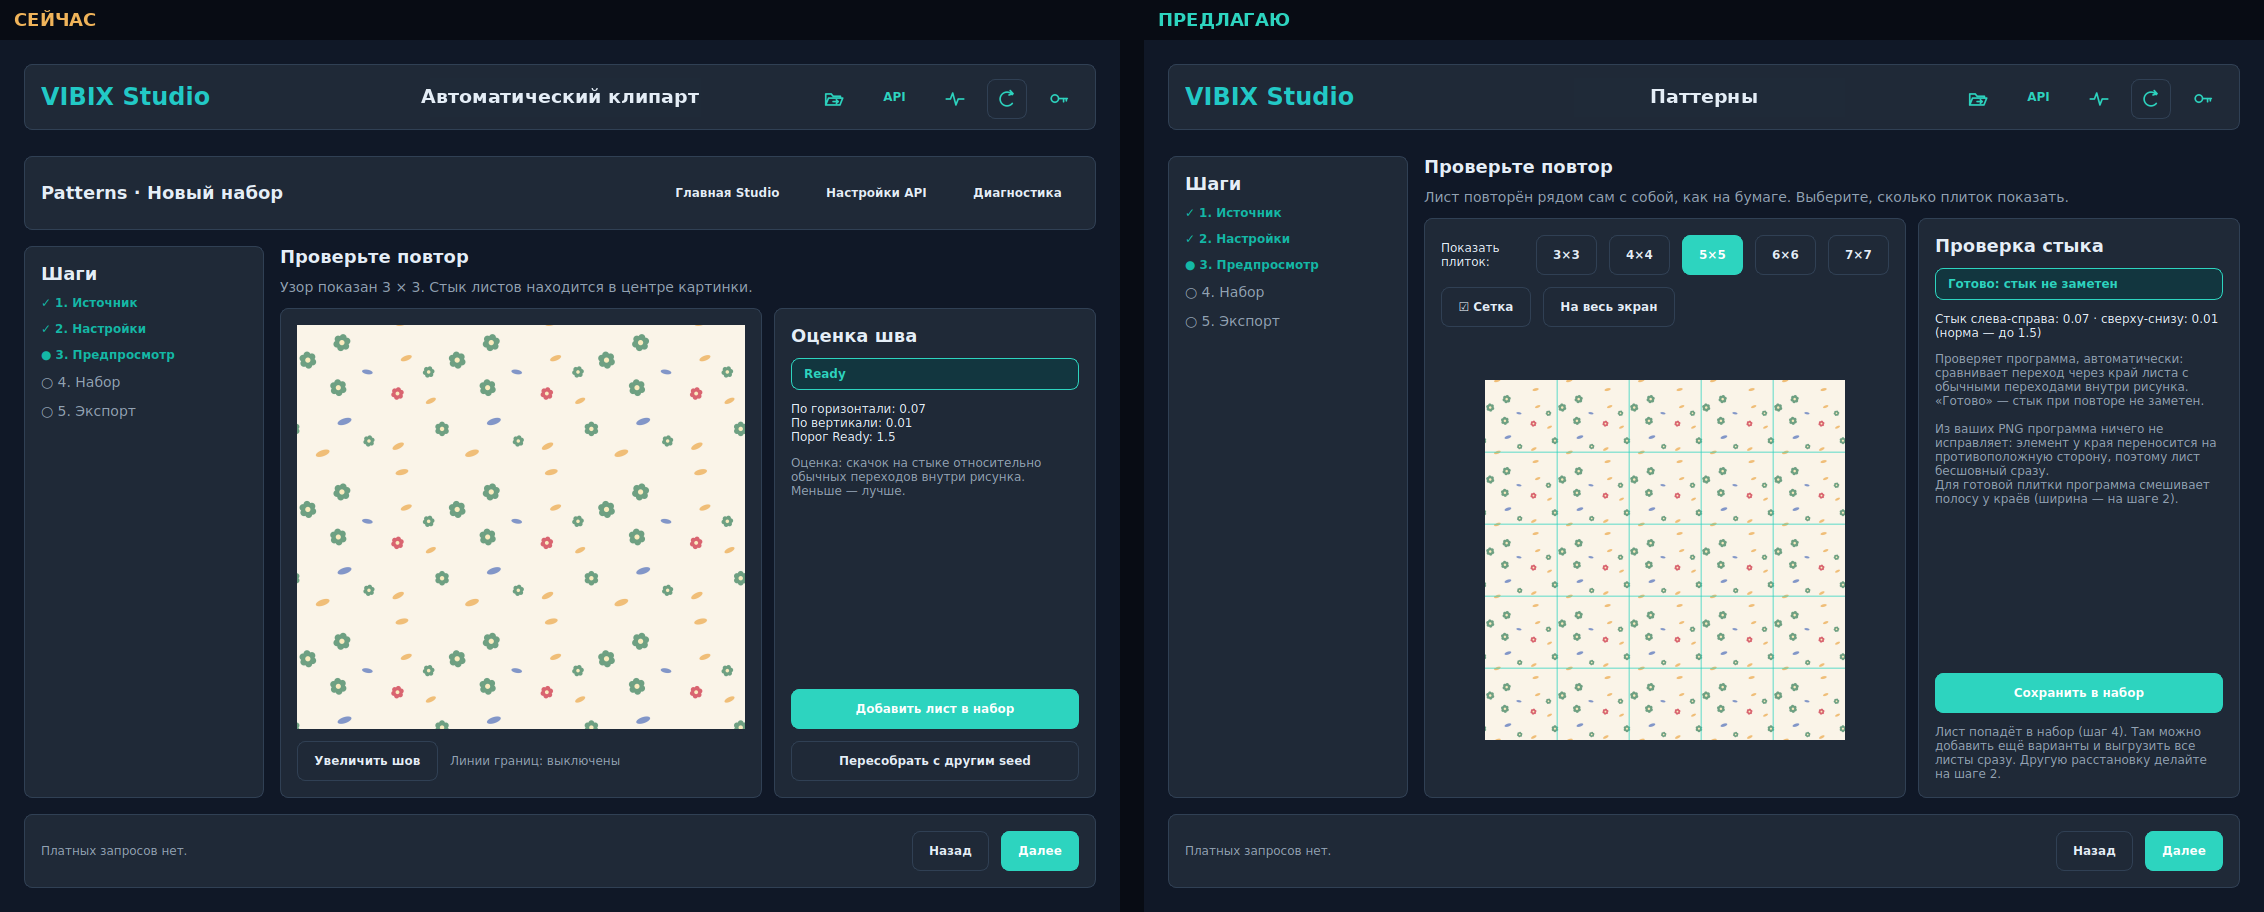
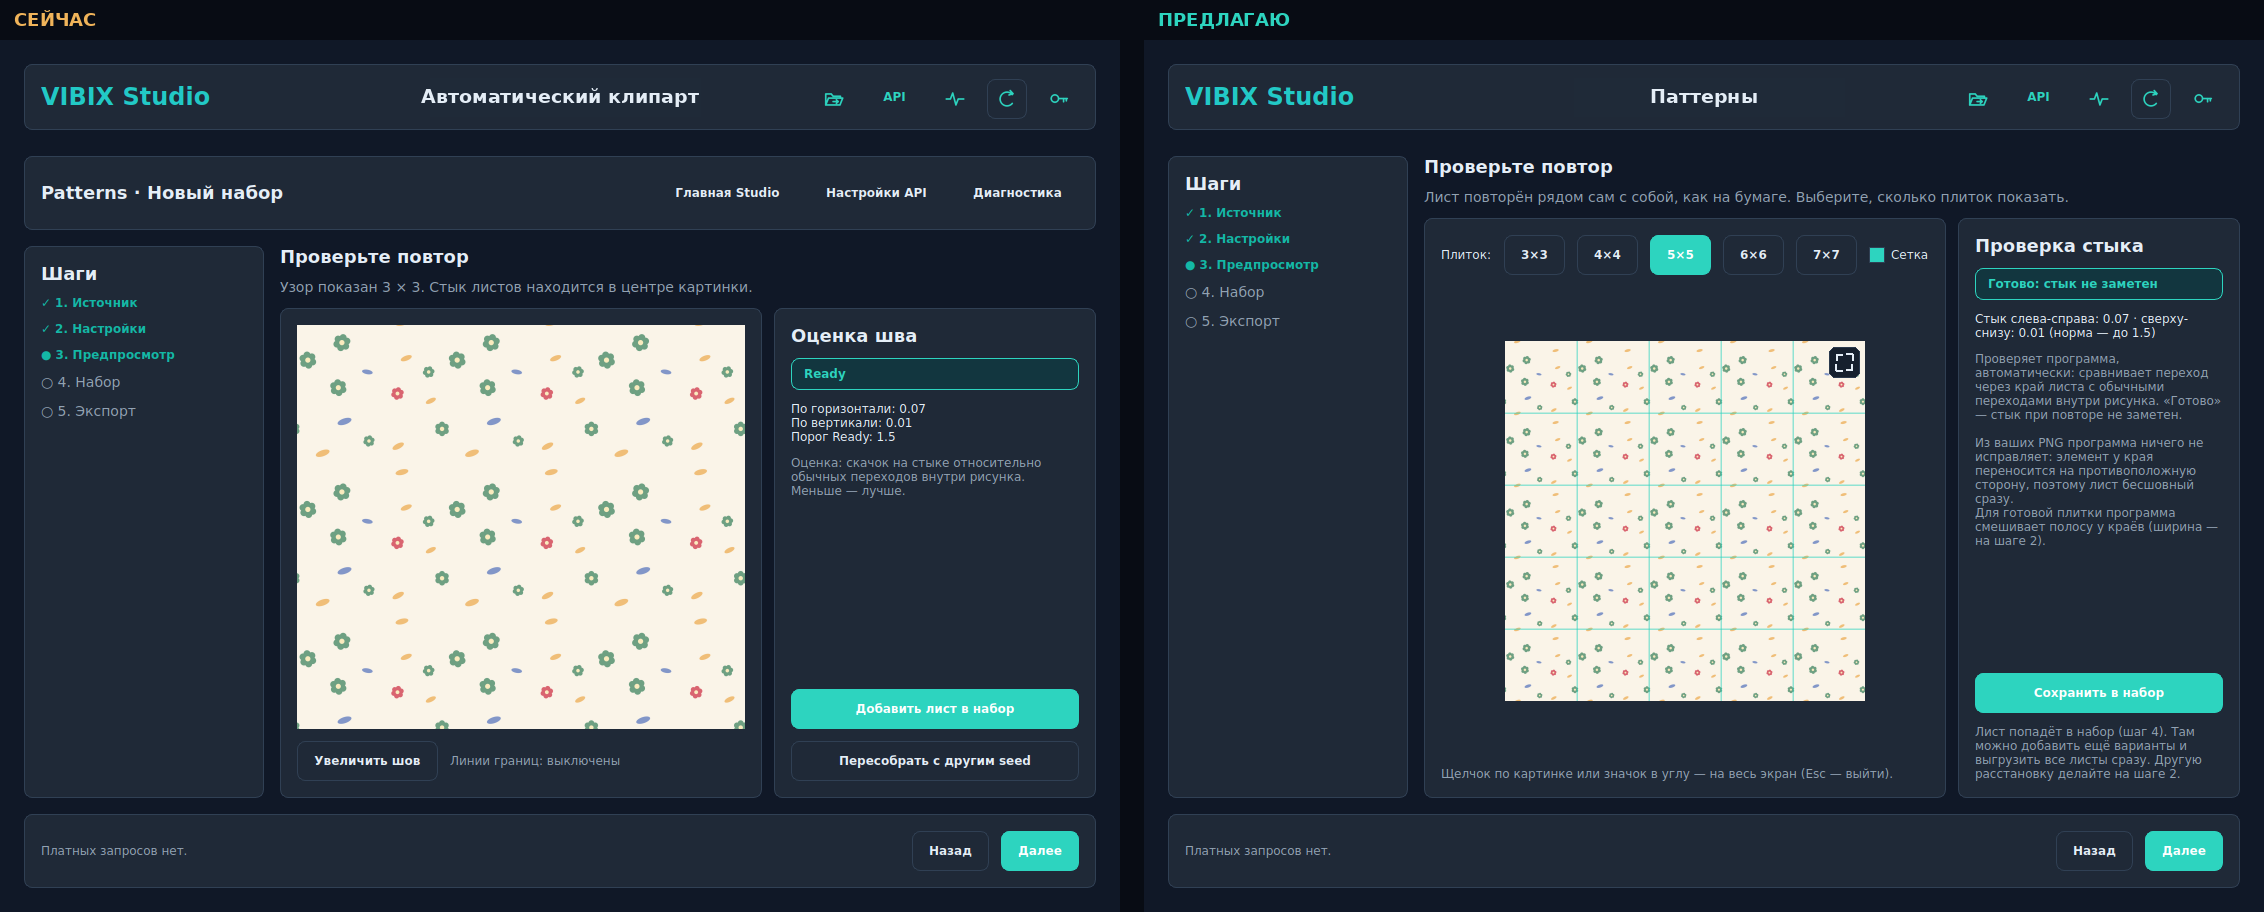
docs: owner approvals 2026-10-23, Patterns step 2/3 second iteration mockups [skip ci]

Changed region(s): [[0.6184, 0.2456, 0.9894, 0.8596]]

diff --git a/docs/ui/3.2/patterns-owner-remarks/render_mockups.py b/docs/ui/3.2/patterns-owner-remarks/render_mockups.py
@@ -187,15 +187,15 @@ with tempfile.TemporaryDirectory(prefix="vibix-patterns-mock-") as temp:
     with_header(grab(page), "Паттерны").save(OUT / "P6-settings-background-scrolled.png")
     scroll.verticalScrollBar().setValue(0)
     pl.itemAt(2).widget().setText("Поставлено 14 из 14 элементов."); _set_state(pl.itemAt(2).widget(), "ok")
-    edit_bar = QHBoxLayout()
-    for text, variant in (("Двигать", ButtonVariant.PRIMARY), ("Поворот", ButtonVariant.SECONDARY),
-                          ("Размер", ButtonVariant.SECONDARY), ("Убрать", ButtonVariant.SECONDARY)):
-        edit_bar.addWidget(V3Button(text, variant))
-    pl.insertLayout(1, edit_bar)
-    pl.insertWidget(2, V3Button("Вернуть автоматическую расстановку", ButtonVariant.GHOST))
+    # owner 2026-10-23: no mode buttons — select with the mouse; one clear reset button; title «Предпросмотр»
+    pl.itemAt(0).widget().setText("Предпросмотр")
+    reset = V3Button("Сбросить правки", ButtonVariant.SECONDARY)
+    reset.setToolTip("Вернуть автоматическую расстановку: ручные правки элементов отменяются")
+    reset_row = QHBoxLayout(); reset_row.addStretch(); reset_row.addWidget(reset)
+    pl.insertLayout(pl.count() - 1, reset_row)
     pl.itemAt(pl.count() - 1).widget().setText(
-        "Щелчок по элементу — выбрать; тянуть — двигать; угол рамки — размер; кружок сверху — поворот. "
-        "Элемент у края появится и с другой стороны листа. Ручные правки «Другая расстановка» не трогает.")
+        "Щелчок по элементу — выделить: тянуть — двигать, углы рамки — размер, кружок сверху — поворот, "
+        "корзина или Delete — удалить. «Сбросить правки» возвращает автоматическую расстановку.")
     pic.setPixmap(_qpixmap(sheet, 300, 300))
     img = grab(page); d = ImageDraw.Draw(img)
     org = pic.mapTo(page, pic.rect().topLeft()); pm = pic.pixmap()
@@ -206,22 +206,27 @@ with tempfile.TemporaryDirectory(prefix="vibix-patterns-mock-") as temp:
         d.rectangle((hx - 4, hy - 4, hx + 4, hy + 4), fill=(45, 212, 191))
     d.line((cx, cy - r, cx, cy - r - 14), fill=(45, 212, 191), width=2)
     d.ellipse((cx - 5, cy - r - 20, cx + 5, cy - r - 10), outline=(45, 212, 191), width=2)
+    # trash icon next to the selection
+    tx, ty = cx + r + 8, cy - r - 4
+    d.rounded_rectangle((tx, ty, tx + 22, ty + 22), 5, fill=(31, 42, 56), outline=(240, 110, 110))
+    d.rectangle((tx + 7, ty + 8, tx + 15, ty + 17), outline=(240, 110, 110), width=2)
+    d.line((tx + 5, ty + 6, tx + 17, ty + 6), fill=(240, 110, 110), width=2)
+    d.line((tx + 9, ty + 4, tx + 13, ty + 4), fill=(240, 110, 110), width=2)
     with_header(img, "Паттерны").save(OUT / "P7-manual-placement-step2.png")
 
     # ---- Step 3: repeat check only (owner 2026-10-23)
     page._go_next(); pump(lambda: page._current is not None)
     top_card.show(); cur = with_header(grab(page), "Автоматический клипарт"); top_card.hide()
     prev_card = page.preview_picture.parentWidget()
+    # owner 2026-10-23: one row — tile count + «Сетка» checkbox; full screen = icon in the picture corner or a click
+    from PyQt6.QtWidgets import QCheckBox
     view_bar = QHBoxLayout()
-    view_bar.addWidget(_text("Показать плиток:", None))
+    view_bar.addWidget(_text("Плиток:", None, wrap=False))
     for n in range(3, 8):
         view_bar.addWidget(V3Button(f"{n}×{n}", ButtonVariant.PRIMARY if n == 5 else ButtonVariant.SECONDARY))
+    grid_box = QCheckBox("Сетка"); grid_box.setChecked(True); view_bar.addWidget(grid_box)
     prev_card.layout().insertLayout(0, view_bar)
-    tools = QHBoxLayout()
-    tools.addWidget(V3Button("☑ Сетка", ButtonVariant.SECONDARY))
-    tools.addWidget(V3Button("На весь экран", ButtonVariant.SECONDARY))
-    tools.addStretch()
-    prev_card.layout().insertLayout(1, tools)
+    prev_card.layout().addWidget(_text("Щелчок по картинке или значок в углу — на весь экран (Esc — выйти).", "v3Small"))
     # hide the old «Увеличить шов / Линии границ» row
     for w in prev_card.findChildren(QWidget):
         if isinstance(w, QLabel) and w.text().startswith("Линии границ"):
@@ -233,6 +238,7 @@ with tempfile.TemporaryDirectory(prefix="vibix-patterns-mock-") as temp:
         gd.line((k * step, 0, k * step, tiled.height), fill=(45, 212, 191), width=3)
         gd.line((0, k * step, tiled.width, k * step), fill=(45, 212, 191), width=3)
     page.preview_picture.setPixmap(_qpixmap(tiled, 360, 360))
+    app.processEvents()
     # Right card: plain words
     right = page.primary_action.parentWidget()
     for w in right.findChildren(QLabel):
@@ -253,7 +259,15 @@ with tempfile.TemporaryDirectory(prefix="vibix-patterns-mock-") as temp:
     page.secondary_action.hide()
     right.layout().addWidget(_text("Лист попадёт в набор (шаг 4). Там можно добавить ещё варианты и выгрузить "
                                    "все листы сразу. Другую расстановку делайте на шаге 2.", "v3Small"))
-    prop = with_header(grab(page), "Паттерны")
+    img3 = grab(page); d3 = ImageDraw.Draw(img3)
+    pr = page.preview_picture; o = pr.mapTo(page, pr.rect().topLeft()); pm = pr.pixmap()
+    x1 = o.x() + (pr.width() + pm.width()) // 2; y0 = o.y() + (pr.height() - pm.height()) // 2
+    bx, by = x1 - 36, y0 + 6
+    d3.rounded_rectangle((bx, by, bx + 30, by + 30), 6, fill=(22, 32, 46), outline=(43, 58, 78))
+    for (ax, ay, dx, dy) in ((bx + 7, by + 7, 1, 1), (bx + 23, by + 7, -1, 1), (bx + 7, by + 23, 1, -1), (bx + 23, by + 23, -1, -1)):
+        d3.line((ax, ay, ax + 6 * dx, ay), fill=(228, 237, 246), width=2)
+        d3.line((ax, ay, ax, ay + 6 * dy), fill=(228, 237, 246), width=2)
+    prop = with_header(img3, "Паттерны")
     pair(cur, prop, "P9-step3-repeat-check.png")
     # Full screen view: only the repeated picture, with a small bar
     full = page.host.preview_image(page._current["image"], 5, 6_000_000).resize((1120, 1120)).crop((0, 170, 1120, 950))

diff --git a/TASKS.md b/TASKS.md
@@ -14,10 +14,16 @@
   - [x] Функции 3.1.x без видимых изменений слиты: целостность итогового PNG (#37), резкость без ореола (#38), повторы
     сохранения итога (#39), быстрое добавление больших файлов (#40). Статус платных задач `result_ready` из 3.1 НЕ
     перенесён — в 3.2 защита от повторной оплаты сделана иначе (docs/ERRORS.md #final-save-retry-20261023).
-  - [ ] МАКЕТЫ ЖДУТ УТВЕРЖДЕНИЯ: перенос 3.1.x C (проблемные файлы), D (лимит 8 МБ Fal), H (код ошибки лицензии) —
+  - УТВЕРЖДЕНО владельцем 2026-10-23: C, D, H; Patterns П1, П2, П4, П5, П6, П8 (с правками: только «Добавить PNG»;
+    для плитки «Выбрать файл», размер один раз); панели окна прозрачности (сброс — только в меню «Панели») и масштаб на
+    рисунке. Ждут утверждения второй итерации: Patterns шаг 2 (ручная правка мышью, «Сбросить правки») и шаг 3
+    (просмотр повтора). Владелец хочет все утверждённые макеты В ЭТОЙ версии — сначала реализовать, потом сборка
+    (по её команде, после показа состава).
+  - [ ] (прежняя запись) МАКЕТЫ ЖДУТ УТВЕРЖДЕНИЯ: перенос 3.1.x C (проблемные файлы), D (лимит 8 МБ Fal), H (код ошибки лицензии) —
     docs/ui/3.2/legacy-3.1-ports/; Patterns П1–П8 — docs/ui/3.2/patterns-owner-remarks/; панели как в Photoshop —
     docs/ui/3.2/photoshop-panels/.
-  - [ ] РЕШЕНИЕ ВЛАДЕЛЬЦА: общий хост модулей — docs/MODULE_HOST_DECISION.ru.md (рекомендация: вариант 1).
+  - [ ] РЕШЕНО владельцем 2026-10-23: общий хост модулей — вариант 1 (docs/MODULE_HOST_DECISION.ru.md), «очень надо»;
+    отдельной задачей ПОСЛЕ текущей сборки.
   - Не делать (решение по коду): Recraft с прозрачным входом (в 3.2 намеренно заблокирован); перенос резкости в конец
     конвейера (меняет видимый порядок шагов) — только с макетом, если понадобится.
 

diff --git a/docs/ui/3.2/patterns-owner-remarks/README.md b/docs/ui/3.2/patterns-owner-remarks/README.md
@@ -33,3 +33,11 @@
   шага 3 убрана — другая расстановка делается на шаге 2. «Увеличить шов» заменена сеткой и режимом на весь экран.
 - **П8** `P8-too-large-png.png`: вместо «Нужен PNG не больше 8192 px» — фактический размер, какое ограничение
   сработало, и кнопка «Добавить уменьшенную копию» (исходник не меняется).
+
+## Правки владельца 2026-10-23 (вторая итерация шагов 2 и 3)
+- Шаг 2: без кнопок «Двигать / Поворот / Размер / Убрать» — элемент выделяется мышью: тянуть — двигать, углы рамки —
+  размер, кружок — поворот, значок корзины рядом с рамкой или Delete — удалить. Кнопка «Сбросить правки» (подсказка:
+  вернуть автоматическую расстановку). Заголовок карточки — «Предпросмотр».
+- Шаг 3: в одну строку «Плиток: 3×3 … 7×7» и галочка «Сетка»; «На весь экран» — значок в углу картинки и щелчок по
+  картинке.
+- Статус: П7 и шаг 3 — ЖДУТ УТВЕРЖДЕНИЯ этой итерации. П1, П2, П4 (с правками), П5, П6, П8 — УТВЕРЖДЕНЫ 2026-10-23.
